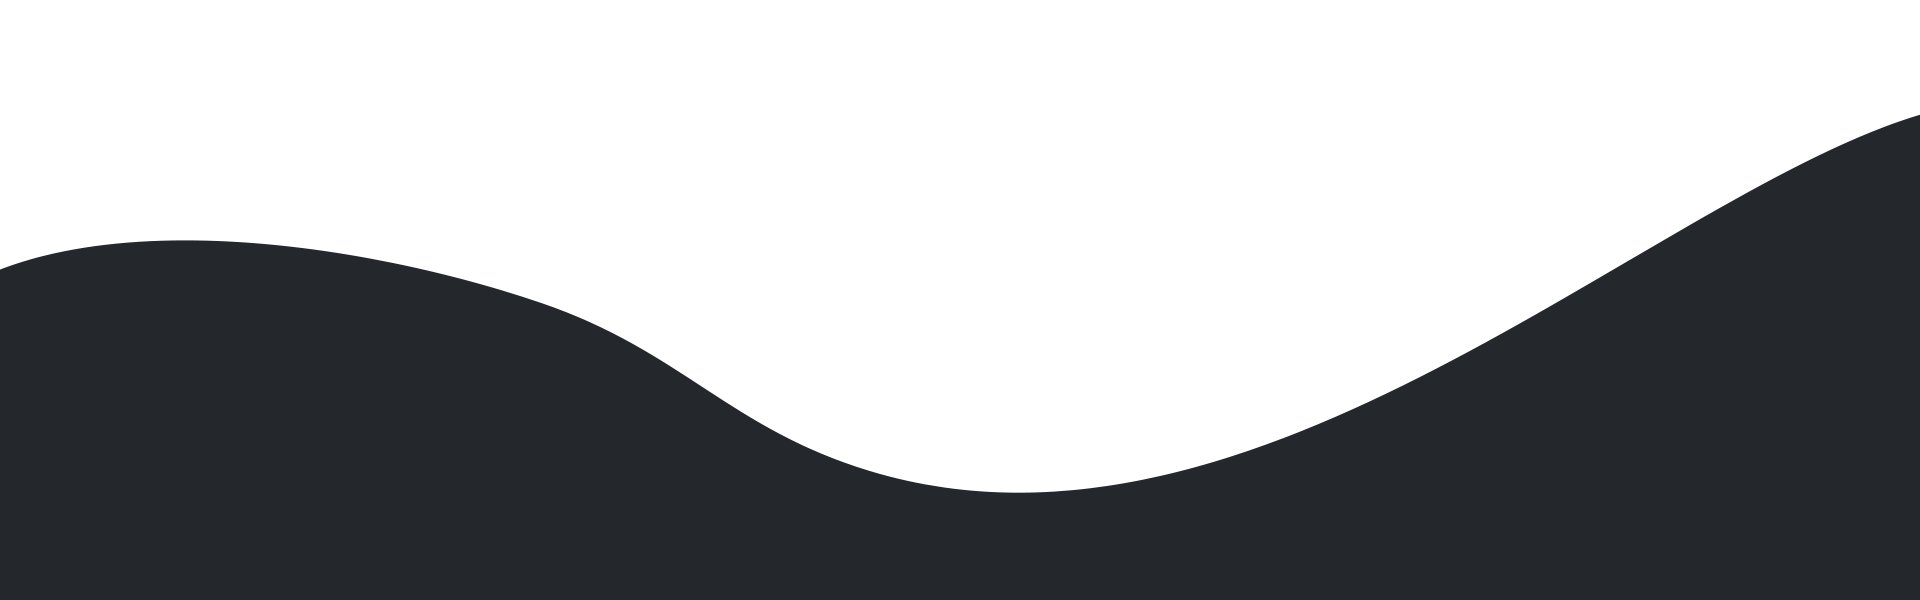
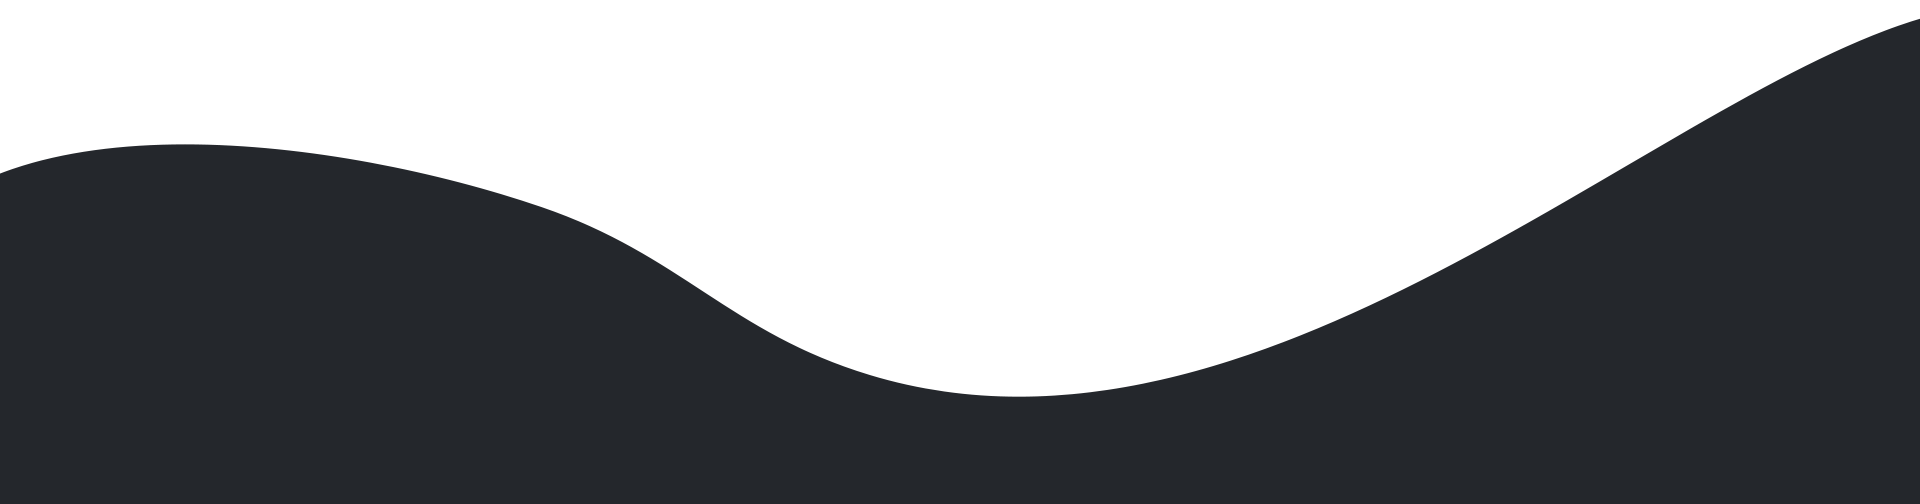
Code review with Micah

Changed region(s): [[0.0, 0.0298, 1.0, 0.8333]]

diff --git a/tavern.css b/tavern.css
@@ -7,38 +7,45 @@
   --not-black: #24272c;
   --not-black-2: #393a3f;
   --not-white: #e7e7e7;
-  user-select: none;
 }
 
 /* BODY STUFF */
 body {
   background-color: var(--not-black);
-  overflow-x: hidden;
-}
-
-.preload * {
-  -webkit-transition: none !important;
-  -moz-transition: none !important;
-  -ms-transition: none !important;
-  -o-transition: none !important;
 }
 
 /* HEADER STUFF */
 
 header {
   position: relative;
-  height: 800px;
   width: 100%;
   margin: 0;
   padding: 0;
-  z-index: 10;
+  z-index: 0;
+}
+
+.content {
+  position: relative;
+}
+
+.headerContainer {
+  position: relative;
+  z-index: 0;
+  margin: 0 auto 0 auto;
+  padding-top: 15px;
+  display: flex;
+  justify-content: space-between;
+  align-items: center;
+  width: 65%;
+  padding-bottom: 70px;
 }
 
 .headerbg {
   position: absolute;
   top: 0;
-  height: 800px;
-  width: 100%;
+  right: 0;
+  left: 0;
+  bottom: 0;
   background: rgb(255, 132, 95);
   background: linear-gradient(
     180deg,
@@ -47,28 +54,20 @@ header {
   );
   margin: 0;
   padding: 0;
-  z-index: 0;
 }
 
 .headerbg-overlay {
   position: absolute;
   top: 0;
-  height: 800px;
-  width: 100%;
+  right: 0;
+  left: 0;
+  bottom: 0;
   background-image: url("tavern-images/bg_cover.png");
   background-size: 2%;
   background-repeat: repeat;
-  z-index: 1;
 }
 
 nav {
-  top: 0;
-  margin: 0 auto 0 auto;
-  padding-top: 15px;
-  display: flex;
-  justify-content: space-between;
-  align-items: center;
-  width: 65%;
 }
 
 .burger {
@@ -143,24 +142,24 @@ nav li a:hover {
   justify-content: center;
   align-items: center;
   cursor: pointer;
-  transition: 200ms;
+  transition: color, box-shadow 200ms linear;
 }
 
 .nav-cta:hover {
   box-shadow: 0px 5px 8px rgba(0, 0, 0, 0.25);
   color: rgba(255, 132, 95, 1);
-  transition: 200ms;
 }
 
 /* HERO */
 .hero {
+  position: relative;
+  z-index: 0;
   display: flex;
   flex-direction: row;
   justify-content: space-evenly;
   align-items: center;
   margin: auto;
   width: 65%;
-  height: 500px;
 }
 
 .herotext {
@@ -171,10 +170,10 @@ nav li a:hover {
   color: var(--not-white);
   font-family: Righteous;
   width: 100%;
-  height: 500px;
 }
 
 .herotext h1 {
+  user-select: none;
   font-size: 7em;
   margin-top: -25px;
   margin-left: -15px;
@@ -183,6 +182,7 @@ nav li a:hover {
 
 .herotext h3 {
   font-size: 2em;
+  user-select: none;
 }
 
 .herotext p {
@@ -205,7 +205,7 @@ nav li a:hover {
   border-radius: 30px;
   text-align: center;
   font-size: 1.8em;
-  transition: 400ms;
+  transition: 200ms;
 }
 
 .hero .cta:nth-child(2) {
@@ -216,10 +216,7 @@ nav li a:hover {
   box-shadow: 0px 5px 8px 5px rgba(0, 0, 0, 0.15);
   color: rgba(255, 132, 95, 1);
   background-color: var(--not-black-2);
-  transition: 200ms;
   cursor: pointer;
-  transition: 200ms;
-  padding: 10px 45px 10px 45px;
 }
 
 .heroimg {
@@ -235,30 +232,28 @@ nav li a:hover {
 /* WAVE */
 .wave {
   overflow: auto;
-  z-index: 2;
   position: relative;
+  padding-bottom: min(300px, calc(504 / 1920 * 100%));
+  z-index: 1;
   width: 100%;
-  height: 400px;
   background-image: url("tavern-images/wave.png");
-  background-size: 100%;
-  background-position: center;
+  background-size: 100% 100%;
+  background-position: bottom center;
   background-repeat: no-repeat;
-  margin-top: -400px;
 }
 
 /* RESPONSIVENESS */
 @media all and (max-width: 600px) {
   /* HEADER */
-  .headerbg {
-    height: 650px;
+
+  header {
+    margin-bottom: 20px;
   }
 
   .headerbg-overlay {
     background-size: 8%;
-    height: 650px;
   }
-
-  nav {
+  .headerContainer {
     top: 0;
     margin: 0 auto 0 auto;
     padding-top: 15px;
@@ -267,12 +262,14 @@ nav li a:hover {
     align-items: center;
     width: 90%;
   }
+  nav {
+  }
 
   nav ul {
     display: none;
   }
 
-  nav .nav-cta {
+  .nav-cta {
     display: none;
   }
 
@@ -310,7 +307,6 @@ nav li a:hover {
     align-items: center;
     margin: auto;
     width: 85%;
-    height: 500px;
     margin-top: 0px;
   }
 

diff --git a/tavern.html b/tavern.html
@@ -10,38 +10,42 @@
 
 </head>
 
-<body class="preload">
+<body>
+    <div class="content">
     <div class="headerbg"></div>
     <div class="headerbg-overlay"></div>
     <header>
+        <div class="headerContainer">
+        <div class="logo">
+            <img src="tavern-images/icon.png" alt="">
+            <h1>TAVERN</h1>
+        </div>
         <nav>
-            <div class="logo">
-                <img src="tavern-images/icon.png" alt="">
-                <h1>TAVERN</h1>
-            </div>
             <ul>
                 <li><a href="#">Home</a></li>
                 <li><a href="#">About</a></li>
                 <li><a href="#">Contact Us</a></li>
                 <li><a href="#">Login</a></li>
             </ul>
-            <div class="nav-cta">Download Tavern</div>
             <div class="burger"><i class="fas fa-bars"></i></div>
         </nav>
-        <div class="hero">
-            <div class="herotext">
-                <h3>Welcome to</h3>
-                    <h1><i>TAVERN</i></h1>
-                    <p>Come have a seat with friends, and a drink.</p>
-                    <div class="cta-container">
-                        <div class="cta login">LOGIN</div>OR
-                        <div class="cta login">REGISTER</div>
-                    </div>
-            </div>
-            <div class="heroimg"></div>
-        </div>
+        <div class="nav-cta">Download Tavern</div>
+    </div>
     </header>
+    <div class="hero">
+        <div class="herotext">
+            <h3>Welcome to</h3>
+                <h1><i>TAVERN</i></h1>
+                <p>Come have a seat with friends, and a drink.</p>
+                <div class="cta-container">
+                    <div class="cta login">LOGIN</div>OR
+                    <div class="cta login">REGISTER</div>
+                </div>
+        </div>
+        <div class="heroimg"></div>
+    </div>
     <div class="wave"></div>
+    </div>
     <script src="https://ajax.googleapis.com/ajax/libs/jquery/3.5.1/jquery.min.js"></script>
     <script src="tavern.js"></script>
 </body>
